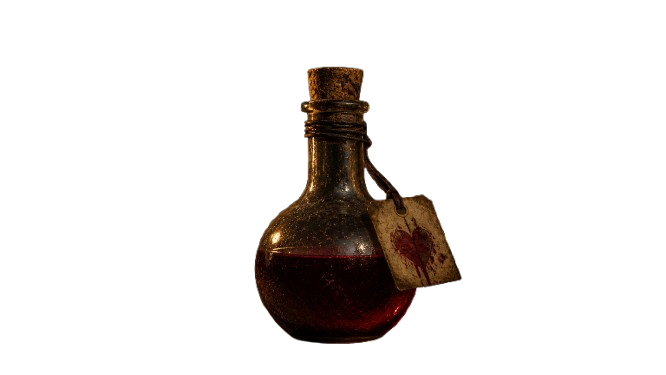
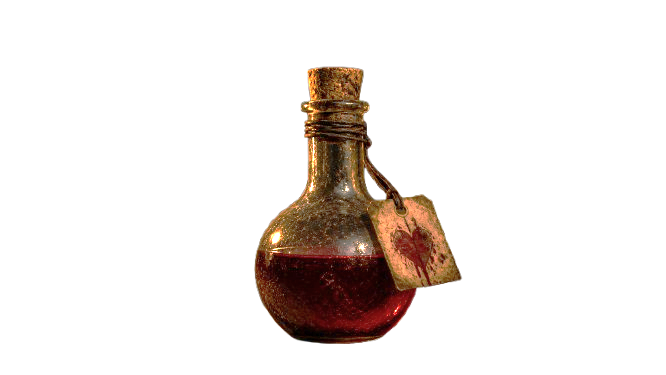
add graphic

Changed region(s): [[0.3604, 0.176, 0.6907, 0.9387]]

diff --git a/my-game/main.cpp b/my-game/main.cpp
@@ -116,6 +116,12 @@ int main()
     Texture2D pooTex = LoadTexture("assets/images/poo.png");
     Texture2D heartTex = LoadTexture("assets/images/heart.png");
     Texture2D introTex = LoadTexture("assets/images/intro1.png");
+    Texture2D atayTex = LoadTexture("assets/images/atay.png");
+    Texture2D crossTex = LoadTexture("assets/images/cross.png");
+    Texture2D diceTex = LoadTexture("assets/images/dice.png");
+    Texture2D holyTex = LoadTexture("assets/images/holywater.png");
+    Texture2D mushroomTex = LoadTexture("assets/images/mushroom.png");
+
 
     srand(time(NULL));
     SetTargetFPS(60);
@@ -562,11 +568,11 @@ int main()
                 if (it.type == BABY)
                     DrawTexturePro(babyTex, {0, 0, (float)babyTex.width, (float)babyTex.height}, it.rect, {0, 0}, 0.0f, col);
                 if (it.type == MEDKIT)
-                    DrawTexturePro(potionMedkitTex, {0, 0, (float)potionMedkitTex.width, (float)potionMedkitTex.height}, it.rect, {0, 0}, 0.0f, col);
+                    DrawTexturePro(potionMedkitTex, {0, 0, (float)potionMedkitTex.width, (float)potionMedkitTex.height},  {it.rect.x, it.rect.y, potionMedkitTex.width * 0.15f, potionMedkitTex.height * 0.15f}, {0, 0}, 0.0f, col);
                 if (it.type == BANDAGE)
-                    DrawTexturePro(potionBandageTex, {0, 0, (float)potionBandageTex.width, (float)potionBandageTex.height}, it.rect, {0, 0}, 0.0f, col);
+                    DrawTexturePro(potionBandageTex, {0, 0, (float)potionBandageTex.width, (float)potionBandageTex.height},  {it.rect.x, it.rect.y, potionBandageTex.width * 0.15f, potionBandageTex.height * 0.15f}, {0, 0}, 0.0f, col);
                 if (it.type == GARLIC)
-                    DrawTexturePro(garlic1Tex, {0, 0, (float)garlic1Tex.width, (float)garlic1Tex.height}, it.rect, {0, 0}, 0.0f, col);
+                    DrawTexturePro(garlic1Tex, {0, 0, (float)garlic1Tex.width, (float)garlic1Tex.height},  {it.rect.x, it.rect.y, garlic1Tex.width * 0.15f, garlic1Tex.height * 0.15f}, {0, 0}, 0.0f, col);
                 if (it.type == CHILI)
                     DrawTexturePro(chiliTex, {0, 0, (float)chiliTex.width, (float)chiliTex.height}, it.rect, {0, 0}, 0.0f, col);
                 if (it.type == TROLLFACE)
@@ -578,19 +584,19 @@ int main()
                 if (it.type == POO)
                     DrawTexturePro(pooTex, {0, 0, (float)pooTex.width, (float)pooTex.height}, it.rect, {0, 0}, 0.0f, col);
                 if (it.type == DICE)
-                    DrawRectangleRec(it.rect, WHITE);
+                    DrawTexturePro(diceTex, {0, 0, (float)diceTex.width, (float)diceTex.height}, it.rect, {0, 0}, 0.0f, col);
                 if (it.type == MUSHROOM)
-                    DrawRectangleRec(it.rect, GREEN);
+                    DrawTexturePro(mushroomTex, {0, 0, (float)mushroomTex.width, (float)mushroomTex.height}, it.rect, {0, 0}, 0.0f, col);
                 if (it.type == POISON)
-                    DrawTexturePro(poisonTex, {0, 0, (float)poisonTex.width, (float)poisonTex.height}, it.rect, {0, 0}, 0.0f, col);
+                   DrawTexturePro(poisonTex,{0, 0, (float)poisonTex.width, (float)poisonTex.height},  {it.rect.x, it.rect.y, poisonTex.width * 0.15f, poisonTex.height * 0.15f}, {0, 0}, 0.0f, col);
                 if (it.type == SALT)
                     DrawTexturePro(saltTex, {0, 0, (float)saltTex.width, (float)saltTex.height}, it.rect, {0, 0}, 0.0f, col);
                 if (it.type == HOLYWATER)
-                    DrawRectangleRec(it.rect, BLUE);
+                    DrawTexturePro(holyTex, {0, 0, (float)holyTex.width, (float)holyTex.height}, it.rect, {0, 0}, 0.0f, col);
                 if (it.type == KRUS)
-                    DrawRectangleRec(it.rect, YELLOW);
+                    DrawTexturePro(crossTex, {0, 0, (float)crossTex.width, (float)crossTex.height}, it.rect, {0, 0}, 0.0f, col);
                 if (it.type == ATAY)
-                    DrawRectangleRec(it.rect, MAROON);
+                    DrawTexturePro(atayTex, {0, 0, (float)atayTex.width, (float)atayTex.height}, it.rect, {0, 0}, 0.0f, col);
             }
 
             //TEXTURE OF FOG EFFECT

diff --git a/my-game/intro.cpp b/my-game/intro.cpp
@@ -78,6 +78,7 @@ bool UpdateExit() {
     return false; 
 }
 
+
 // ================= DRAW =================
 void DrawIntro(int highScore, Texture2D introTex) {
     int screenWidth = GetScreenWidth();

diff --git a/my-game/intro.h b/my-game/intro.h
@@ -9,4 +9,3 @@ bool UpdateExit(); // returns true when player wants to exit
 void InitIntroMusic();   // load and start playing intro music
 void UpdateIntroMusic(); // keep music stream updated each frame
 void StopIntroMusic();   // stop and unload intro music
-